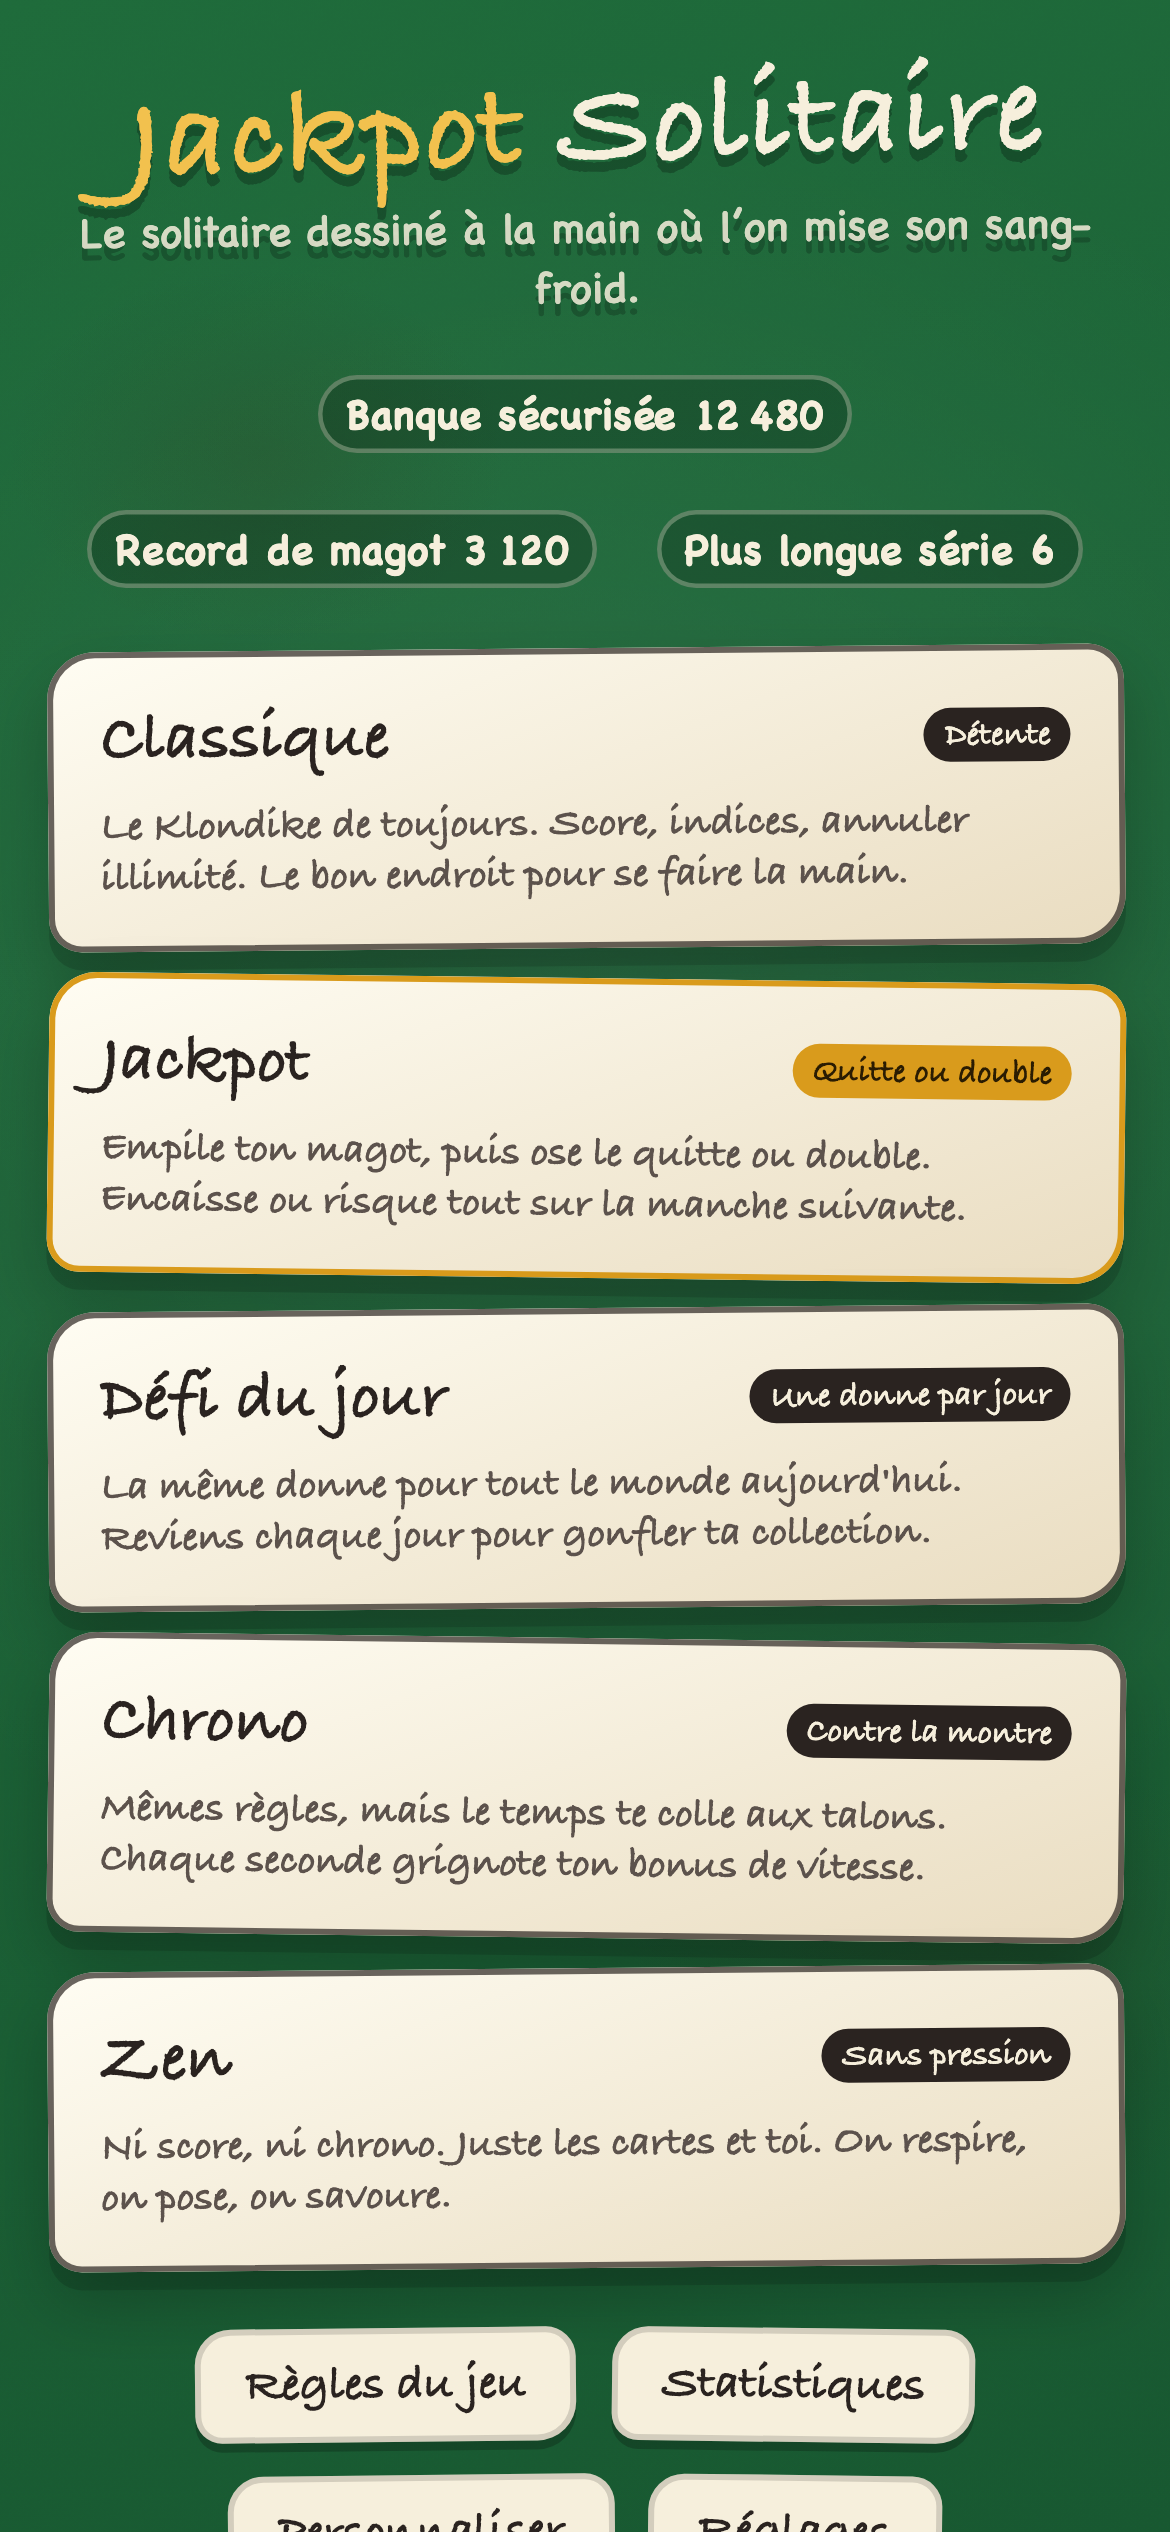
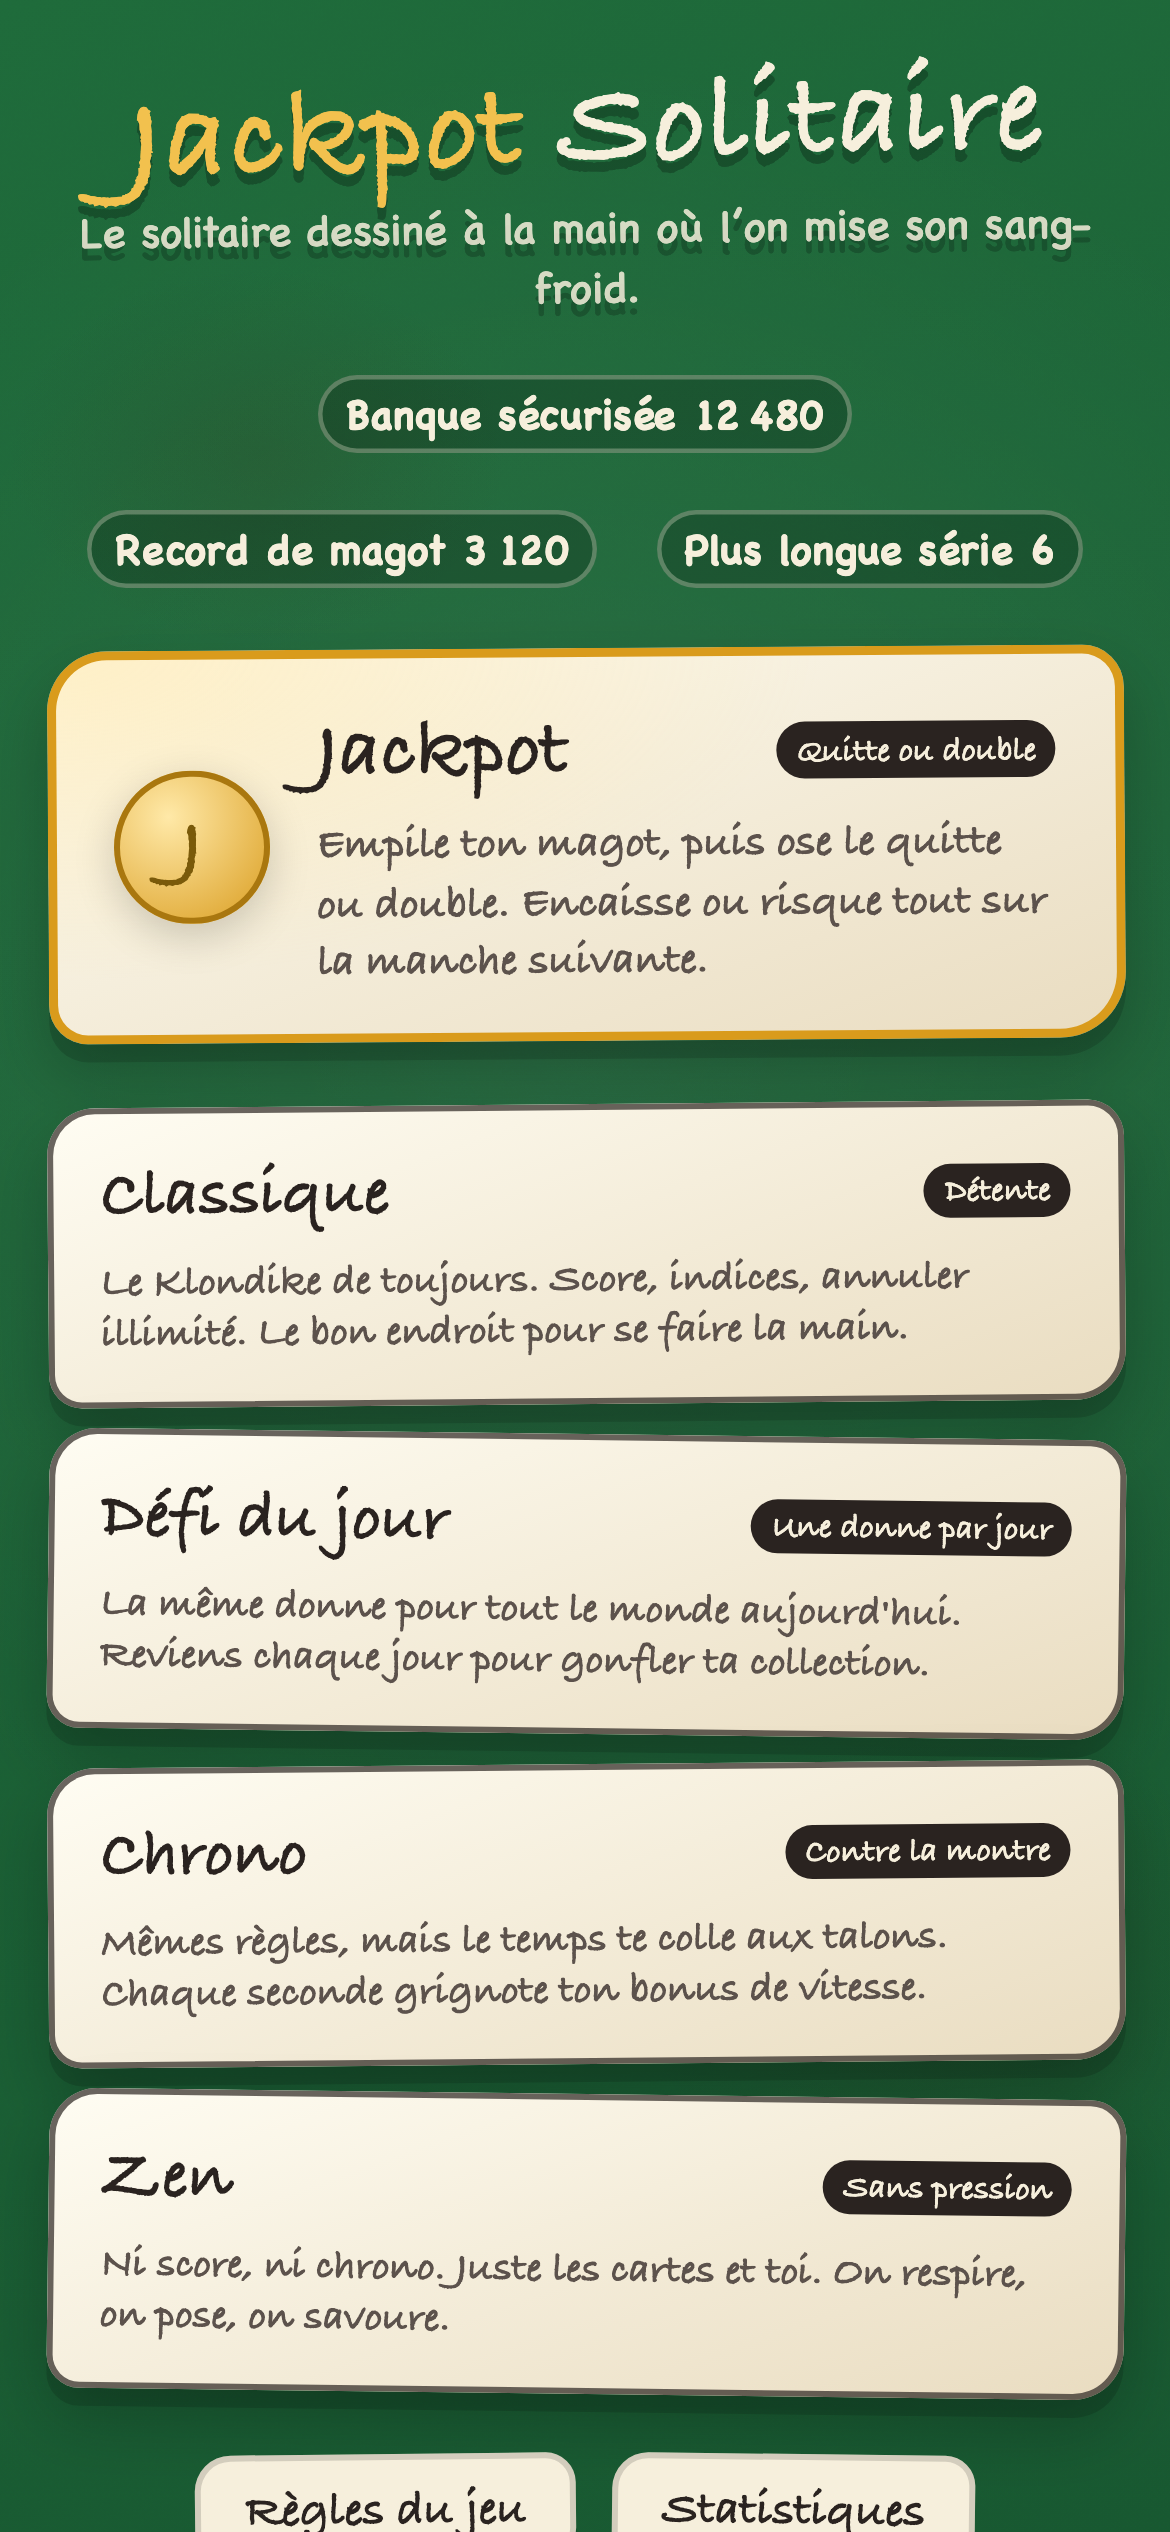
fix: screenshots

Changed region(s): [[0.0308, 0.2496, 0.9846, 1.0]]

diff --git a/src/styles/ui.css b/src/styles/ui.css
@@ -162,6 +162,69 @@
   justify-content: center;
 }
 
+/* Bandeau vedette du mode Jackpot: nettement plus grand et dore, pour bien
+   signaler que c'est le mode phare, au-dessus de la grille des 4 autres. */
+.mode-featured {
+  width: min(920px, 100%);
+  display: flex;
+  align-items: center;
+  gap: 1rem;
+  text-align: left;
+  padding: 1.1rem 1.4rem;
+  border-radius: 20px 14px 22px 13px;
+  background:
+    radial-gradient(
+      120% 140% at 0% 0%,
+      rgba(255, 216, 115, 0.35),
+      transparent 60%
+    ),
+    linear-gradient(160deg, #fffdf3, var(--paper-shade));
+  color: var(--ink);
+  box-shadow:
+    var(--shadow-card),
+    inset 0 0 0 3px var(--gold-deep);
+  transform: rotate(-0.4deg);
+  transition: transform 0.14s var(--ease-pop);
+}
+.mode-featured:hover {
+  transform: translateY(-3px) rotate(-0.1deg);
+}
+.mode-featured:active {
+  transform: translateY(1px);
+}
+.mode-featured__coin {
+  flex: none;
+  width: 3.2rem;
+  height: 3.2rem;
+  border-radius: 50%;
+  display: grid;
+  place-items: center;
+  font-family: var(--font-hand);
+  font-weight: 800;
+  font-size: 1.6rem;
+  background: radial-gradient(circle at 35% 30%, #ffe9a8, #d99b1c);
+  box-shadow:
+    inset 0 0 0 2px #a9770f,
+    var(--shadow-soft);
+  color: #7a5a0a;
+}
+.mode-featured__body {
+  display: flex;
+  flex-direction: column;
+  gap: 0.3rem;
+  min-width: 0;
+}
+.mode-featured__title {
+  font-family: var(--font-hand);
+  font-weight: 800;
+  font-size: 1.7rem;
+}
+.mode-featured__desc {
+  font-size: 0.92rem;
+  color: var(--ink-soft);
+  line-height: 1.3;
+}
+
 .modes {
   display: grid;
   grid-template-columns: repeat(auto-fit, minmax(190px, 1fr));
@@ -215,15 +278,6 @@
   font-size: 0.86rem;
   color: var(--ink-soft);
   line-height: 1.25;
-}
-.mode-card[data-accent='gold'] {
-  box-shadow:
-    var(--shadow-card),
-    inset 0 0 0 2px var(--gold-deep);
-}
-.mode-card[data-accent='gold'] .mode-card__badge {
-  background: var(--gold-deep);
-  color: #2a1c02;
 }
 
 .home__actions {

diff --git a/src/components/Home.tsx b/src/components/Home.tsx
@@ -8,8 +8,14 @@ interface ModeTile {
   title: string;
   badge: string;
   desc: string;
-  accent?: 'gold';
 }
+
+const FEATURED_TILE: ModeTile = {
+  mode: 'gambling',
+  title: 'Jackpot',
+  badge: 'Quitte ou double',
+  desc: 'Empile ton magot, puis ose le quitte ou double. Encaisse ou risque tout sur la manche suivante.',
+};
 
 const TILES: ModeTile[] = [
   {
@@ -17,13 +23,6 @@ const TILES: ModeTile[] = [
     title: 'Classique',
     badge: 'Détente',
     desc: 'Le Klondike de toujours. Score, indices, annuler illimité. Le bon endroit pour se faire la main.',
-  },
-  {
-    mode: 'gambling',
-    title: 'Jackpot',
-    badge: 'Quitte ou double',
-    desc: 'Empile ton magot, puis ose le quitte ou double. Encaisse ou risque tout sur la manche suivante.',
-    accent: 'gold',
   },
   {
     mode: 'daily',
@@ -72,12 +71,26 @@ export function Home() {
         <span className="chip">Plus longue série {longest}</span>
       </div>
 
+      <button
+        key={FEATURED_TILE.mode}
+        className="mode-featured"
+        onClick={() => newGame({ mode: FEATURED_TILE.mode })}
+      >
+        <span className="mode-featured__coin">J</span>
+        <span className="mode-featured__body">
+          <span className="mode-card__head">
+            <span className="mode-featured__title">{FEATURED_TILE.title}</span>
+            <span className="mode-card__badge">{FEATURED_TILE.badge}</span>
+          </span>
+          <span className="mode-featured__desc">{FEATURED_TILE.desc}</span>
+        </span>
+      </button>
+
       <div className="modes">
         {TILES.map((tile) => (
           <button
             key={tile.mode}
             className="mode-card"
-            data-accent={tile.accent}
             onClick={() =>
               newGame({
                 mode: tile.mode,
